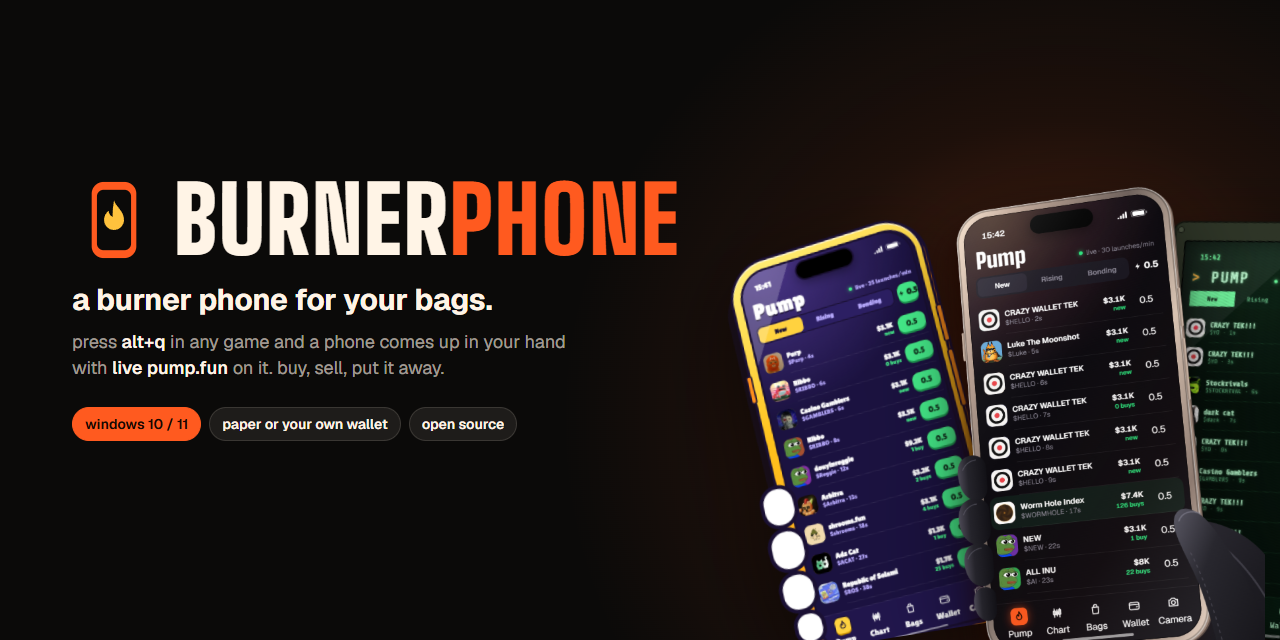
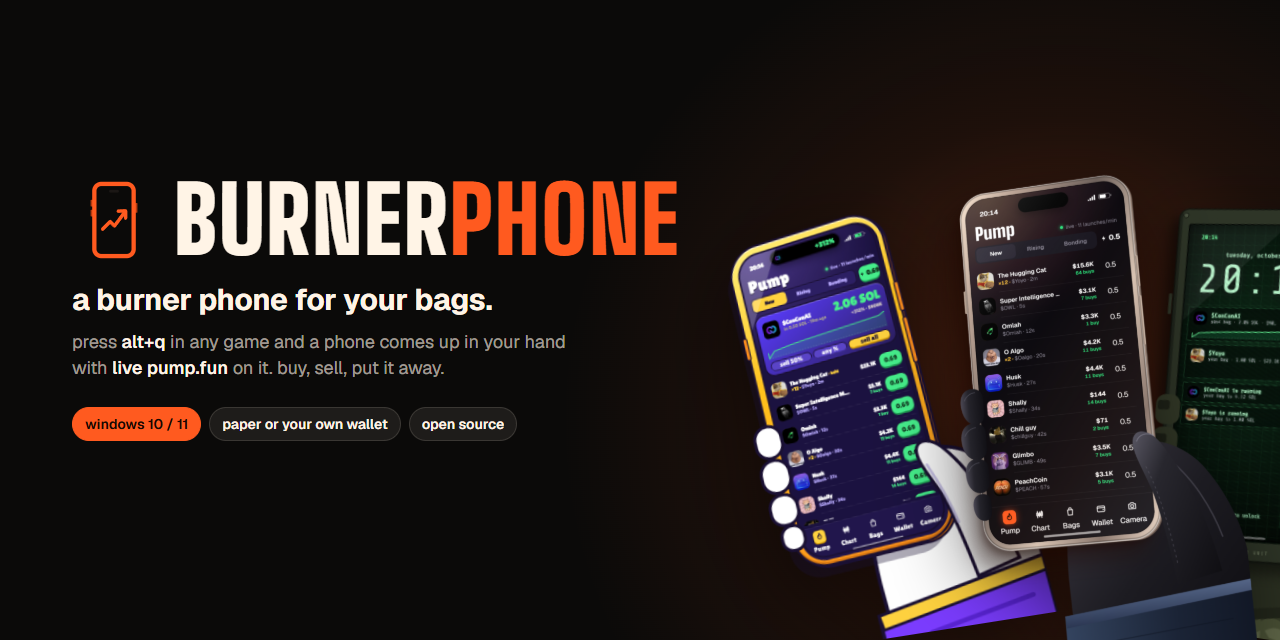
Brand: the X profile picture's mark everywhere, X links
- scripts/brand-mark.mjs: the mark from x.com/burnerphonefun's picture
  (orange outline phone, keys, island, chart arrow on black), redrawn on
  the picture's own grid; a bold cut for 16-32 px
- favicon (bold, on black), apple-touch-icon, icon-512, the Windows app
  and tray icons (ship with the next release), the site's logo (mark +
  wordmark in the header and footer)
- link preview: new og.png, and absolute og:image / twitter:image URLs
  (X ignores relative ones), twitter:site @burnerphonefun
- X links: nav, next to the download button, the download links, the
  footer, the README badges and links
- README banner / social card and the X / DEX Screener banners use the
  mark; their phones come from the curated teaser snapshot

Changed region(s): [[0.5625, 0.25, 1.0, 1.0], [0.0625, 0.2812, 0.125, 0.4062]]

diff --git a/web/index.html b/web/index.html
@@ -8,10 +8,14 @@
   <meta name="theme-color" content="#0B0A09">
   <meta property="og:title" content="BurnerPhone">
   <meta property="og:description" content="a burner phone for your bags. trade pump.fun without leaving the game.">
-  <meta property="og:image" content="/og.png">
+  <meta property="og:image" content="https://burner-production-5f82.up.railway.app/og.png">
+  <meta property="og:url" content="https://burner-production-5f82.up.railway.app/">
   <meta property="og:type" content="website">
   <meta name="twitter:card" content="summary_large_image">
+  <meta name="twitter:site" content="@burnerphonefun">
+  <meta name="twitter:image" content="https://burner-production-5f82.up.railway.app/og.png">
   <link rel="icon" href="/favicon.svg" type="image/svg+xml">
+  <link rel="apple-touch-icon" href="/apple-touch-icon.png">
   <link rel="preload" href="/api/snapshot" as="fetch" crossorigin="anonymous">
   <link rel="preload" href="/poster-blocky.jpg" as="image" fetchpriority="high">
   <link rel="preconnect" href="https://fonts.googleapis.com">
@@ -21,6 +25,8 @@
 <body data-world="blocky">
   <svg width="0" height="0" style="position:absolute" aria-hidden="true">
     <symbol id="i-gh" viewBox="0 0 16 16"><path fill="currentColor" d="M8 0C3.58 0 0 3.58 0 8c0 3.54 2.29 6.53 5.47 7.59.4.07.55-.17.55-.38 0-.19-.01-.82-.01-1.49-2.01.37-2.53-.49-2.69-.94-.09-.23-.48-.94-.82-1.13-.28-.15-.68-.52-.01-.53.63-.01 1.08.58 1.23.82.72 1.21 1.87.87 2.33.66.07-.52.28-.87.51-1.07-1.78-.2-3.64-.89-3.64-3.95 0-.87.31-1.59.82-2.15-.08-.2-.36-1.02.08-2.12 0 0 .67-.21 2.2.82.64-.18 1.32-.27 2-.27.68 0 1.36.09 2 .27 1.53-1.04 2.2-.82 2.2-.82.44 1.1.16 1.92.08 2.12.51.56.82 1.27.82 2.15 0 3.07-1.87 3.75-3.65 3.95.29.25.54.73.54 1.48 0 1.07-.01 1.93-.01 2.2 0 .21.15.46.55.38A8.013 8.013 0 0016 8c0-4.42-3.58-8-8-8z"/></symbol>
+    <symbol id="i-mark" viewBox="44 44 312 312"><rect x="113" y="125" width="10" height="25" rx="3" fill="#B83A0E"/><rect x="113" y="162" width="10" height="25" rx="3" fill="#B83A0E"/><rect x="277" y="137" width="10" height="36" rx="3" fill="#B83A0E"/><rect x="127" y="66" width="146" height="268" rx="26" fill="none" stroke="#FF5A1F" stroke-width="16"/><rect x="182" y="88" width="36" height="10" rx="5" fill="#1B1715"/><polyline points="158,234 186,206 202,222 242,168" fill="none" stroke="#FF5A1F" stroke-width="13" stroke-linecap="round" stroke-linejoin="round"/><polyline points="216,167 243,166 243,193" fill="none" stroke="#FF5A1F" stroke-width="13" stroke-linecap="round" stroke-linejoin="round"/></symbol>
+    <symbol id="i-x" viewBox="0 0 24 24"><path fill="currentColor" d="M18.244 2.25h3.308l-7.227 8.26 8.502 11.24H16.17l-5.214-6.817L4.99 21.75H1.68l7.73-8.835L1.254 2.25H8.08l4.713 6.231zm-1.161 17.52h1.833L7.084 4.126H5.117z"/></symbol>
     <symbol id="i-win" viewBox="0 0 16 16"><path fill="currentColor" d="M0 2.27 6.54 1.38v6.3H0zM7.32 1.27 16 0v7.68H7.32zM0 8.32h6.54v6.3L0 13.73zM7.32 8.32H16V16l-8.68-1.27z"/></symbol>
     <symbol id="i-shield" viewBox="0 0 24 24"><path fill="none" stroke="currentColor" stroke-width="2" stroke-linejoin="round" d="M12 2.5 4 5.6v6.1c0 4.7 3.4 8.6 8 9.8 4.6-1.2 8-5.1 8-9.8V5.6z"/><path fill="none" stroke="currentColor" stroke-width="2" stroke-linecap="round" stroke-linejoin="round" d="m8.5 12 2.4 2.4 4.6-4.8"/></symbol>
     <symbol id="i-code" viewBox="0 0 24 24"><path fill="none" stroke="currentColor" stroke-width="2" stroke-linecap="round" stroke-linejoin="round" d="m8 7-5 5 5 5M16 7l5 5-5 5M13.5 4.5l-3 15"/></symbol>
@@ -71,10 +77,11 @@
     </div>
 
     <header class="st-top">
-      <a class="st-logo" href="#top">BURNER<span>PHONE</span></a>
+      <a class="st-logo" href="#top"><svg class="st-logo-mark" aria-hidden="true"><use href="#i-mark"/></svg>BURNER<span>PHONE</span></a>
       <span class="st-mob-pitch">a phone for your bags in any game. this one is live, paper SOL ↓</span>
       <nav>
         <a href="#games">games</a><a href="#real">real trading</a>
+        <a class="st-nav-icon" href="https://x.com/burnerphonefun" target="_blank" rel="noopener" aria-label="BurnerPhone on X" title="@burnerphonefun on X"><svg aria-hidden="true"><use href="#i-x"/></svg></a>
         <a class="st-nav-icon" href="https://github.com/burnerphonefun/Burner-Phone" target="_blank" rel="noopener" aria-label="BurnerPhone source code on GitHub" title="source code on GitHub"><svg aria-hidden="true"><use href="#i-gh"/></svg></a>
       </nav>
     </header>
@@ -86,6 +93,7 @@
       <div class="st-cta">
         <a class="st-btn st-btn-main st-btn-dl" href="https://github.com/burnerphonefun/Burner-Phone/releases/latest" data-dl><svg aria-hidden="true"><use href="#i-win"/></svg>download for windows</a>
         <a class="st-btn st-btn-icon" href="https://github.com/burnerphonefun/Burner-Phone" target="_blank" rel="noopener" aria-label="source code on GitHub" title="source code on GitHub"><svg aria-hidden="true"><use href="#i-gh"/></svg></a>
+        <a class="st-btn st-btn-icon" href="https://x.com/burnerphonefun" target="_blank" rel="noopener" aria-label="BurnerPhone on X" title="@burnerphonefun on X"><svg aria-hidden="true"><use href="#i-x"/></svg></a>
       </div>
       <small class="st-cta-sub" data-dl-sub>free · windows 10 / 11 · open source</small>
     </div>
@@ -157,6 +165,7 @@
           <a href="https://github.com/burnerphonefun/Burner-Phone/releases/latest" data-zip>portable zip</a>
           <a href="https://github.com/burnerphonefun/Burner-Phone/releases/latest" target="_blank" rel="noopener">all files + checksums</a>
           <a href="https://github.com/burnerphonefun/Burner-Phone" target="_blank" rel="noopener"><svg aria-hidden="true"><use href="#i-gh"/></svg>source code</a>
+          <a href="https://x.com/burnerphonefun" target="_blank" rel="noopener"><svg aria-hidden="true"><use href="#i-x"/></svg>@burnerphonefun</a>
         </div>
       </div>
       <ol class="st-steps">
@@ -183,8 +192,12 @@
   </main>
 
   <footer class="st-foot">
-    <span class="st-logo">BURNER<span>PHONE</span></span>
+    <span class="st-logo"><svg class="st-logo-mark" aria-hidden="true"><use href="#i-mark"/></svg>BURNER<span>PHONE</span></span>
     <span>live data from pump.fun, pumpportal, jupiter, geckoterminal and dex screener. the website is paper trading only. not affiliated with any game.</span>
+    <span class="st-foot-links">
+      <a href="https://x.com/burnerphonefun" target="_blank" rel="noopener" aria-label="BurnerPhone on X"><svg aria-hidden="true"><use href="#i-x"/></svg>@burnerphonefun</a>
+      <a href="https://github.com/burnerphonefun/Burner-Phone" target="_blank" rel="noopener" aria-label="BurnerPhone on GitHub"><svg aria-hidden="true"><use href="#i-gh"/></svg>github</a>
+    </span>
   </footer>
 
   <script type="module" src="/src/main.js"></script>

diff --git a/web/src/site.css b/web/src/site.css
@@ -35,6 +35,9 @@ body[data-world='obby'] .st-shade, body[data-world='toon'] .st-shade { backgroun
 .st-top { position: absolute; top: 0; left: 0; right: 0; display: flex; align-items: center; justify-content: space-between; padding: 22px 44px; z-index: 20; }
 .st-logo { font: 900 30px/1 'Big Shoulders Display', Impact, sans-serif; letter-spacing: 2px; text-decoration: none; color: var(--paper); text-shadow: 0 2px 0 rgba(0,0,0,.35); }
 .st-logo span { color: var(--burn); }
+/* the mark from the X profile picture, sized to the caps */
+.st-logo { display: inline-flex; align-items: center; }
+.st-logo-mark { width: 1.18em; height: 1.18em; margin: -.12em .22em -.12em -.12em; flex: none; filter: drop-shadow(0 2px 0 rgba(0,0,0,.35)); }
 .st-top nav { display: flex; gap: 26px; margin-right: 330px; padding: 8px 16px; border-radius: 12px; background: rgba(8,6,16,.45); }
 .st-top nav a { text-decoration: none; font-weight: 600; font-size: 14px; opacity: .88; transition: opacity .2s, color .2s; }
 .st-top nav a:hover { opacity: 1; color: var(--acc); }
@@ -275,7 +278,11 @@ body[data-world='city'] .hud-city, body[data-world='blocky'] .hud-blocky, body[d
 .st-faq li { padding: 18px 20px; border-radius: 16px; background: #16120f; border: 1px solid rgba(255,244,230,.08); font-size: 14.5px; line-height: 1.5; color: rgba(255,244,230,.8); }
 .st-faq b { display: block; color: var(--paper); margin-bottom: 4px; }
 .st-foot { max-width: 1180px; margin: 60px auto 0; padding: 26px 44px 40px; display: flex; gap: 24px; align-items: center; border-top: 1px solid rgba(255,244,230,.08); font-size: 13px; color: rgba(255,244,230,.55); }
-.st-foot .st-logo { font-size: 22px; }
+.st-foot .st-logo { font-size: 22px; flex: none; }
+.st-foot-links { display: flex; gap: 18px; margin-left: auto; flex: none; }
+.st-foot-links a { display: inline-flex; align-items: center; gap: 7px; font-weight: 600; color: rgba(255,244,230,.8); text-decoration: none; }
+.st-foot-links a:hover { color: var(--burn); }
+.st-foot-links svg { width: 15px; height: 15px; }
 
 /* ---------- smaller desktops ---------- */
 @media (max-width: 1180px) { .st-pitch { width: min(520px, 42vw); } .st-top nav { margin-right: 0; } .st-pick { width: 86px; height: 62px; } .st-cards { grid-template-columns: repeat(2, 1fr); } }
@@ -307,4 +314,5 @@ body[data-world='city'] .hud-city, body[data-world='blocky'] .hud-blocky, body[d
   .st-dl { display: none; } .st-trust { grid-template-columns: 1fr 1fr; }
   .st-get-mobile { display: block; }
   .st-foot { flex-direction: column; align-items: flex-start; padding: 24px 16px 40px; gap: 10px; }
+  .st-foot-links { margin-left: 0; }
 }

diff --git a/README.md b/README.md
@@ -8,6 +8,7 @@
   <a href="https://github.com/burnerphonefun/Burner-Phone/actions/workflows/ci.yml"><img alt="build" src="https://img.shields.io/github/actions/workflow/status/burnerphonefun/Burner-Phone/ci.yml?branch=main&style=flat-square&label=build&labelColor=0B0A09"></a>
   <img alt="windows 10 / 11" src="https://img.shields.io/badge/windows-10%20%2F%2011-FFF4E6?style=flat-square&labelColor=0B0A09">
   <a href="LICENSE"><img alt="MIT license" src="https://img.shields.io/badge/license-MIT-2BE07A?style=flat-square&labelColor=0B0A09"></a>
+  <a href="https://x.com/burnerphonefun"><img alt="follow @burnerphonefun on X" src="https://img.shields.io/badge/follow-%40burnerphonefun-FF5A1F?style=flat-square&logo=x&logoColor=white&labelColor=0B0A09"></a>
 </p>
 
 <h3>
@@ -16,6 +17,8 @@
   <a href="https://burner-production-5f82.up.railway.app">Try it in the browser</a>
   &nbsp;·&nbsp;
   <a href="#how-it-works">How it works</a>
+  &nbsp;·&nbsp;
+  <a href="https://x.com/burnerphonefun">X / Twitter</a>
 </h3>
 
 <br>
